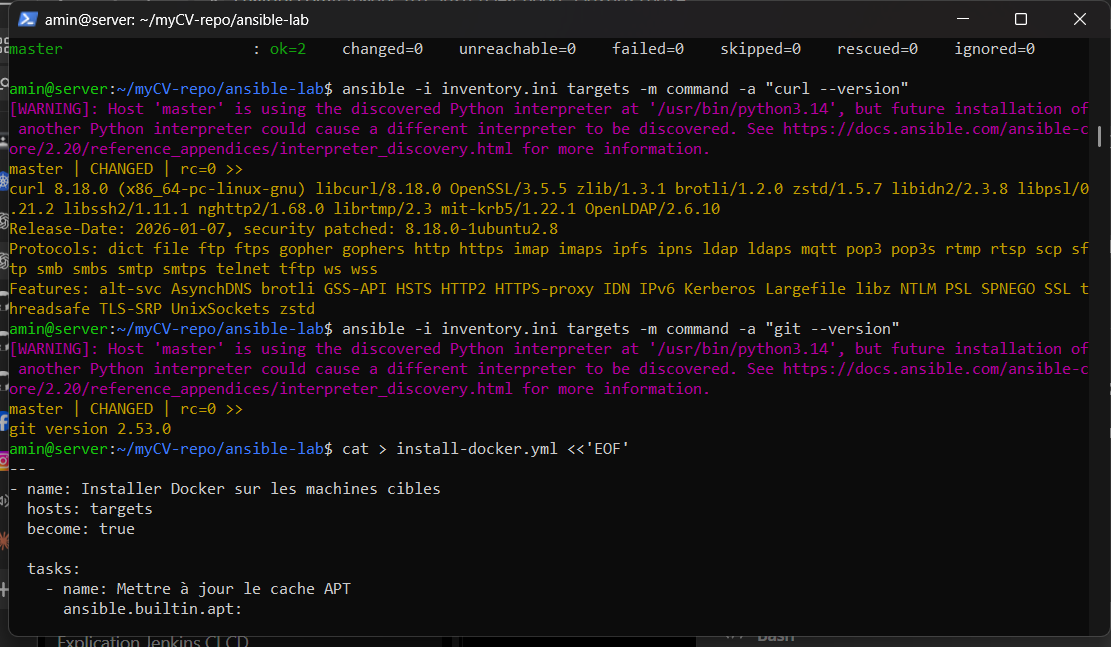
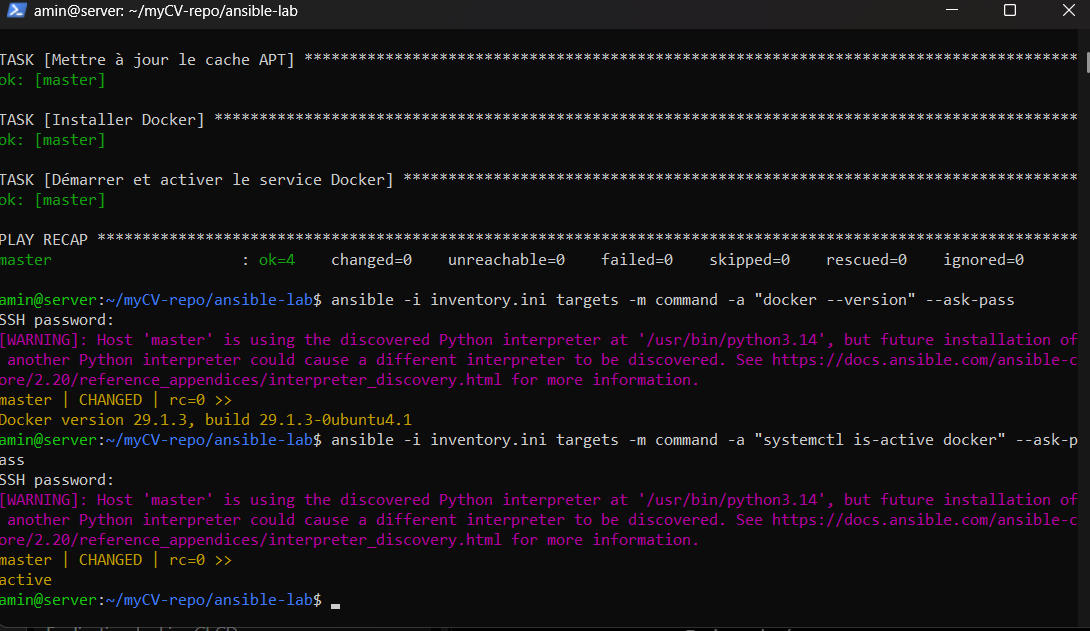
Complete Ansible exercises 27 and 28

diff --git a/ansible-lab/README.md b/ansible-lab/README.md
@@ -94,13 +94,9 @@ Résultat : `curl 8.18.0` et `git version 2.53.0`.
 
 ### Captures d'écran
 
-Exécution du playbook :
+Exécution du playbook et Vérification des versions :
 
-![Exécution install-packages](screenshots/05-install-packages.png)
-
-Vérification des versions :
-
-![Vérification curl et git](screenshots/06-verification-curl-git.png)
+![Vérification curl et git](screenshots/Act3/06-verification-curl-git.png)
 
 ---
 
@@ -168,7 +164,7 @@ active
 
 ### Capture d'écran
 
-![Docker installé : version et service actif](screenshots/08-verification-docker.png)
+![Docker installé : version et service actif](screenshots/Act3/08-verification-docker.png)
 
 ---
 
